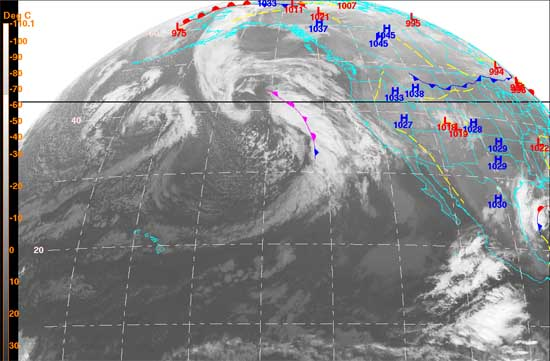
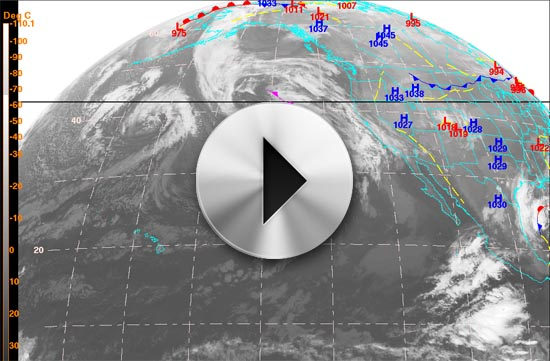
Update to version 2.1.0

diff --git a/css/weather-page.css b/css/weather-page.css
@@ -40,13 +40,12 @@
 	margin-top:40px;
 }
 #mmm-weather-page-container #temperature {
-	font-size:40px;
+	font-size:28px;
 	font-weight:bold;
 	text-align:right;
 }
 #mmm-weather-page-container #sky {
 	text-align:right;
-	padding-top:5px;
 }
 #mmm-weather-page-container #current-data {
 	float:right;
@@ -91,4 +90,7 @@
 }
 #current-conditions-container {
 	height:160px;
+}
+#fronts a:hover, #seven a:hover {
+	opacity:0.6;
 }

diff --git a/mmm-weather.php b/mmm-weather.php
@@ -4,7 +4,7 @@ Plugin Name: MMM Weather
 Plugin URI: http://monasheemountainmultimedia.com
 Description: Weather live feed from Environment Canada that displays in a page or as a widget.
 Author: Derek Marcinyshyn
-Version: 2.0.1
+Version: 2.1.0
 Author URI: http://monasheemountainmultimedia.com
 Network: true
 
@@ -29,7 +29,7 @@ defined( 'ABSPATH' ) or die( "Cannot access pages directly." );
 defined( "DS" ) or define( "DS", DIRECTORY_SEPARATOR );
 
 /** This Version */
-define( 'MMMW_VERSION', '2.0.1');
+define( 'MMMW_VERSION', '2.1.0');
 
 /** Get Directory */
 define( 'MMMW_DIRECTORY', dirname( plugin_basename( __FILE__ ) ) );

diff --git a/README.md b/README.md
@@ -5,9 +5,9 @@ Contributors: monashee
 Donate link: http://monasheemountainmultimedia.com
 Tags: weather, environment canada
 Requires at least: 3.3
-Tested up to: 3.3
-Stable tag: 2.0.1
-~Current Version:2.0.1~
+Tested up to: 3.4
+Stable tag: 2.1.0
+~Current Version:2.1.0~
 
 A custom sidebar weather widget for Revelstoke, BC. 
 
@@ -33,6 +33,11 @@ Coming soon.
 
 Changelog
 ---------
+
+= 2.1.0 =
+Various css fixes and clean up
+Add and organize forecast cities
+Add infrared, jet stream, 48 hour fronts, 7 day forecast tabs
 
 = 2.0.1 =
 Update updater class to 1.0.3
